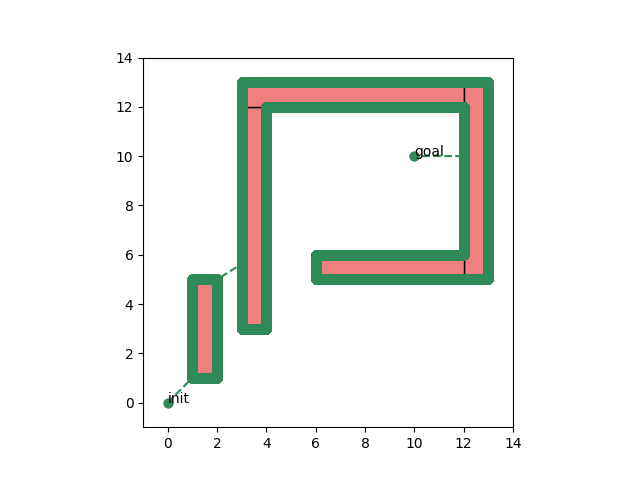
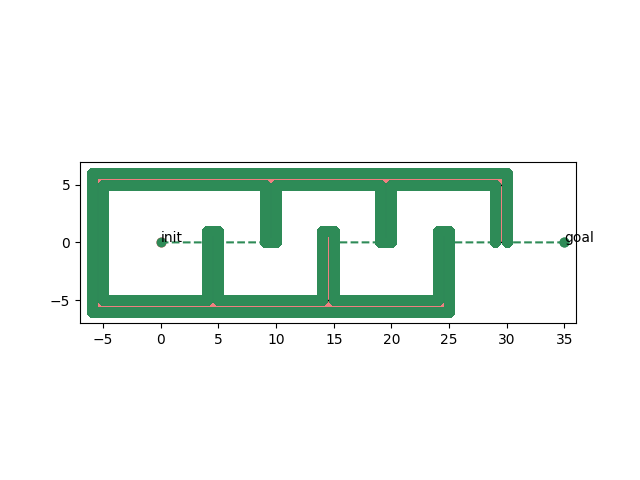
bug 2 works!

diff --git a/ws/hw2/MyBug2.cpp b/ws/hw2/MyBug2.cpp
@@ -1,8 +1,23 @@
-#include "MyBugAlgorithm.h"
+#include "MyBug2.h"
 #include "MyObstacle.h"
 #include "MyAgent.h"
 
-amp::Path2D MyBugAlgorithm::plan(const amp::Problem2D& problem) {
+double MyBug2::DistanceToMLine(Eigen::Vector2d q_start, Eigen::Vector2d q_end, Eigen::Vector2d q){
+    // a = (y2-y1)
+    // b = -(x2-x1)
+    // c = x2*y1 - x1*y2
+
+    double a = q_end[1] - q_start[1];
+    double b = -(q_end[0] - q_start[0]);
+    double c = (q_end[0]*q_start[1]) - (q_start[0]*q_end[1]);
+    
+    // so by my convention, all points to the left of the vector 
+    // point a to point b are negative. therefore I define polygons cCW using vertices
+    return abs(a*q[0] + b*q[1] + c)/sqrt((a*a) + (b*b));
+}
+
+
+amp::Path2D MyBug2::plan(const amp::Problem2D& problem) {
 
     // Your algorithm solves the problem and generates a path. Here is a hard-coded to path for now...
     
@@ -27,7 +42,7 @@ amp::Path2D MyBugAlgorithm::plan(const amp::Problem2D& problem) {
     int qh_i_index = -1; //will save the index of the point on the path at qhi
     int ql_i_index = -1; //ditto but for qli
     bool collided = false; // lets us know if we are in obstacle logic or not
-    double min_dist;
+    double dist_qh;
 
     Eigen::Vector2d last_position = agent.x;
     int stuck_points = 0;
@@ -35,7 +50,7 @@ amp::Path2D MyBugAlgorithm::plan(const amp::Problem2D& problem) {
     
     path.waypoints.push_back(agent.x);
 
-    while (j < 6e5){
+    while (j < 16e5){
         
         // at start, evaluate if we hit goal! if not pushback and continue
         if ((problem.q_goal - agent.x).norm() < epsilon) {
@@ -59,7 +74,7 @@ amp::Path2D MyBugAlgorithm::plan(const amp::Problem2D& problem) {
             bool converged;
             if (qh_i_index == -1){ //define qhi for the first time
                 qh_i_index = path.waypoints.size() - 1;
-                min_dist = (problem.q_goal - path.waypoints[qh_i_index]).norm();
+                dist_qh = (problem.q_goal - path.waypoints[qh_i_index]).norm();
             }
 
             converged = agent.rotateToCircumnavigateRH(my_obstacles, dtheta, epsilon);
@@ -70,48 +85,25 @@ amp::Path2D MyBugAlgorithm::plan(const amp::Problem2D& problem) {
             if (circumnav_collided){
                 agent.heading *=-1;
             }
+
+            // detect if we made it back to m_line
+            double dist_mline = DistanceToMLine(problem.q_init, problem.q_goal, agent.x);
+            double dist_togoal = (problem.q_goal - agent.x).norm();
+
+            PointAgent test_agent = agent; // copies agent to check if path to goal is blocked
+            test_agent.pointAtGoal(problem.q_goal);
+            bool collision_test = test_agent.move(my_obstacles, dt, epsilon);
             
-            //set qli if new minimum found
-            if ((problem.q_goal - agent.x).norm() <= min_dist) {
-                ql_i_index = path.waypoints.size(); // no minus 1 here because we havent pushed that point yet
-                min_dist = (problem.q_goal - agent.x).norm();
-            }
-
-            // detect if we made it back to qhi
-            if ((path.waypoints[qh_i_index] - agent.x).norm() <= 3*epsilon &&
-                path.waypoints.size() >= qh_i_index + 200) { //this is a guard to make sure we have moved far enough past it
-                //looks like we made it back
-                //compute which path is shortest to qli
-                // option 1 is taking qhi to qli again.
-                // option 2 is reversing and going x to qli
-                
-                //my robot moves pretty linearly, so we are gonna assume the
-                // fewer points between the two is the shortest path
-                if ((j - ql_i_index) < (ql_i_index - qh_i_index)){
-                    //option 2 is shorter
-
-                    // N.B. I needed some AI help to figure out how to reverse
-                    std::vector<Eigen::Vector2d> temp(
-                        path.waypoints.begin() + ql_i_index,
-                        path.waypoints.end()
-                    );
-                    std::reverse(temp.begin(), temp.end()); // gotta flip to turn around
-                    path.waypoints.insert(path.waypoints.end(), temp.begin(), temp.end());
-                } else {
-                    // option 1 is shorter
-
-                    path.waypoints.insert(
-                        path.waypoints.end(),
-                        path.waypoints.begin() + qh_i_index,
-                        path.waypoints.begin() + ql_i_index);
-                }
-                agent.x = path.waypoints[ql_i_index];
+            if (dist_mline <= 3*epsilon && 
+                path.waypoints.size() >= qh_i_index + 200 &&
+                dist_togoal < dist_qh &&
+                !collision_test) {
+               
                 agent.pointAtGoal(problem.q_goal);
                 collided = false;
                 agent.previous_dist = -1;
 
                 qh_i_index = -1; //set back to sentinel value
-                ql_i_index = -1;
 
             }
         }

diff --git a/ws/hw2/main.cpp b/ws/hw2/main.cpp
@@ -6,6 +6,7 @@
 
 // Include any custom headers you created in your workspace
 #include "MyBugAlgorithm.h"
+#include "MyBug2.h"
 #include "Primative.h"
 #include "MyObstacle.h"
 #include "MyAgent.h"
@@ -145,12 +146,12 @@ int main(int argc, char** argv) {
     /*    Randomly generate the problem     */ 
 
     // Use WO1 from Exercise 2
-    Problem2D problem = HW2::getWorkspace1();
+    //Problem2D problem = HW2::getWorkspace1();
 
     // Use WO1 from Exercise 2
-    /*
+
     Problem2D problem = HW2::getWorkspace2();
-    */
+
 
     // Make a random environment spec, edit properties about it such as the number of obstacles
     /*
@@ -168,7 +169,7 @@ int main(int argc, char** argv) {
     const double epsilon = 0.001;
     const double dt = 0.0005;
     const double dtheta = 2.0;
-    MyBugAlgorithm algo(dt, dtheta, epsilon); 
+    MyBug2 algo(dt, dtheta, epsilon); 
     
     {
         // Call your algorithm on the problem
@@ -180,6 +181,7 @@ int main(int argc, char** argv) {
         bool success = HW2::check(path, problem);
 
         LOG("Found valid solution to workspace 1: " << (success ? "Yes!" : "No :("));
+        LOG("path length: " << path.length());
 
         // Visualize the path and environment
         Visualizer::makeFigure(problem, path);
@@ -187,24 +189,24 @@ int main(int argc, char** argv) {
 
     // Let's get crazy and generate a random environment and test your algorithm
     {
-    int trial = 1;
-    while (true) {
-        amp::Path2D path; // Make empty path, problem, and collision points, as they will be created by generateAndCheck()
-        amp::Problem2D random_prob; 
-        std::vector<Eigen::Vector2d> collision_points;
-        bool random_trial_success = HW2::generateAndCheck(algo, path, random_prob, collision_points);
-        LOG("Random trial #" << trial << " - Found valid solution in random environment: " << (random_trial_success ? "Yes!" : "No :("));
-        LOG("path length: " << path.length());
+    // int trial = 1;
+    // while (true) {
+    //     amp::Path2D path; // Make empty path, problem, and collision points, as they will be created by generateAndCheck()
+    //     amp::Problem2D random_prob; 
+    //     std::vector<Eigen::Vector2d> collision_points;
+    //     bool random_trial_success = HW2::generateAndCheck(algo, path, random_prob, collision_points);
+    //     LOG("Random trial #" << trial << " - Found valid solution in random environment: " << (random_trial_success ? "Yes!" : "No :("));
+    //     LOG("path length: " << path.length());
 
-        // Visualize the path environment, and any collision points with obstacles
+    //     // Visualize the path environment, and any collision points with obstacles
         
-        if (!random_trial_success) {
-            Visualizer::makeFigure(random_prob, path, collision_points);
-            LOG("Stopping loop: random trial failed.");
-            break;
-        }
-        ++trial;
-    }
+    //     if (!random_trial_success) {
+    //         Visualizer::makeFigure(random_prob, path, collision_points);
+    //         LOG("Stopping loop: random trial failed.");
+    //         break;
+    //     }
+    //     ++trial;
+    // }
     }
 
     Visualizer::saveFigures(true, "hw2_figs");

diff --git a/ws/hw2/MyBug2.h b/ws/hw2/MyBug2.h
@@ -1,0 +1,20 @@
+#pragma once
+
+#include "AMPCore.h"
+#include "hw/HW2.h"
+
+/// @brief Declare your bug algorithm class here. Note this class derives the bug algorithm class declared in HW2.h
+class MyBug2 : public amp::BugAlgorithm {
+    public:
+        MyBug2(double dt, double dtheta, double epsilon)
+        : dt(dt), dtheta(dtheta), epsilon(epsilon) {}
+        // Override and implement the bug algorithm in the plan method. The methods are declared here in the `.h` file
+        virtual amp::Path2D plan(const amp::Problem2D& problem) override;
+
+        // Add any other methods here...
+        double DistanceToMLine(Eigen::Vector2d q_start, Eigen::Vector2d q_end, Eigen::Vector2d q);
+    
+    private:
+        // Add any member variables here...
+        double dt, dtheta, epsilon;
+};
